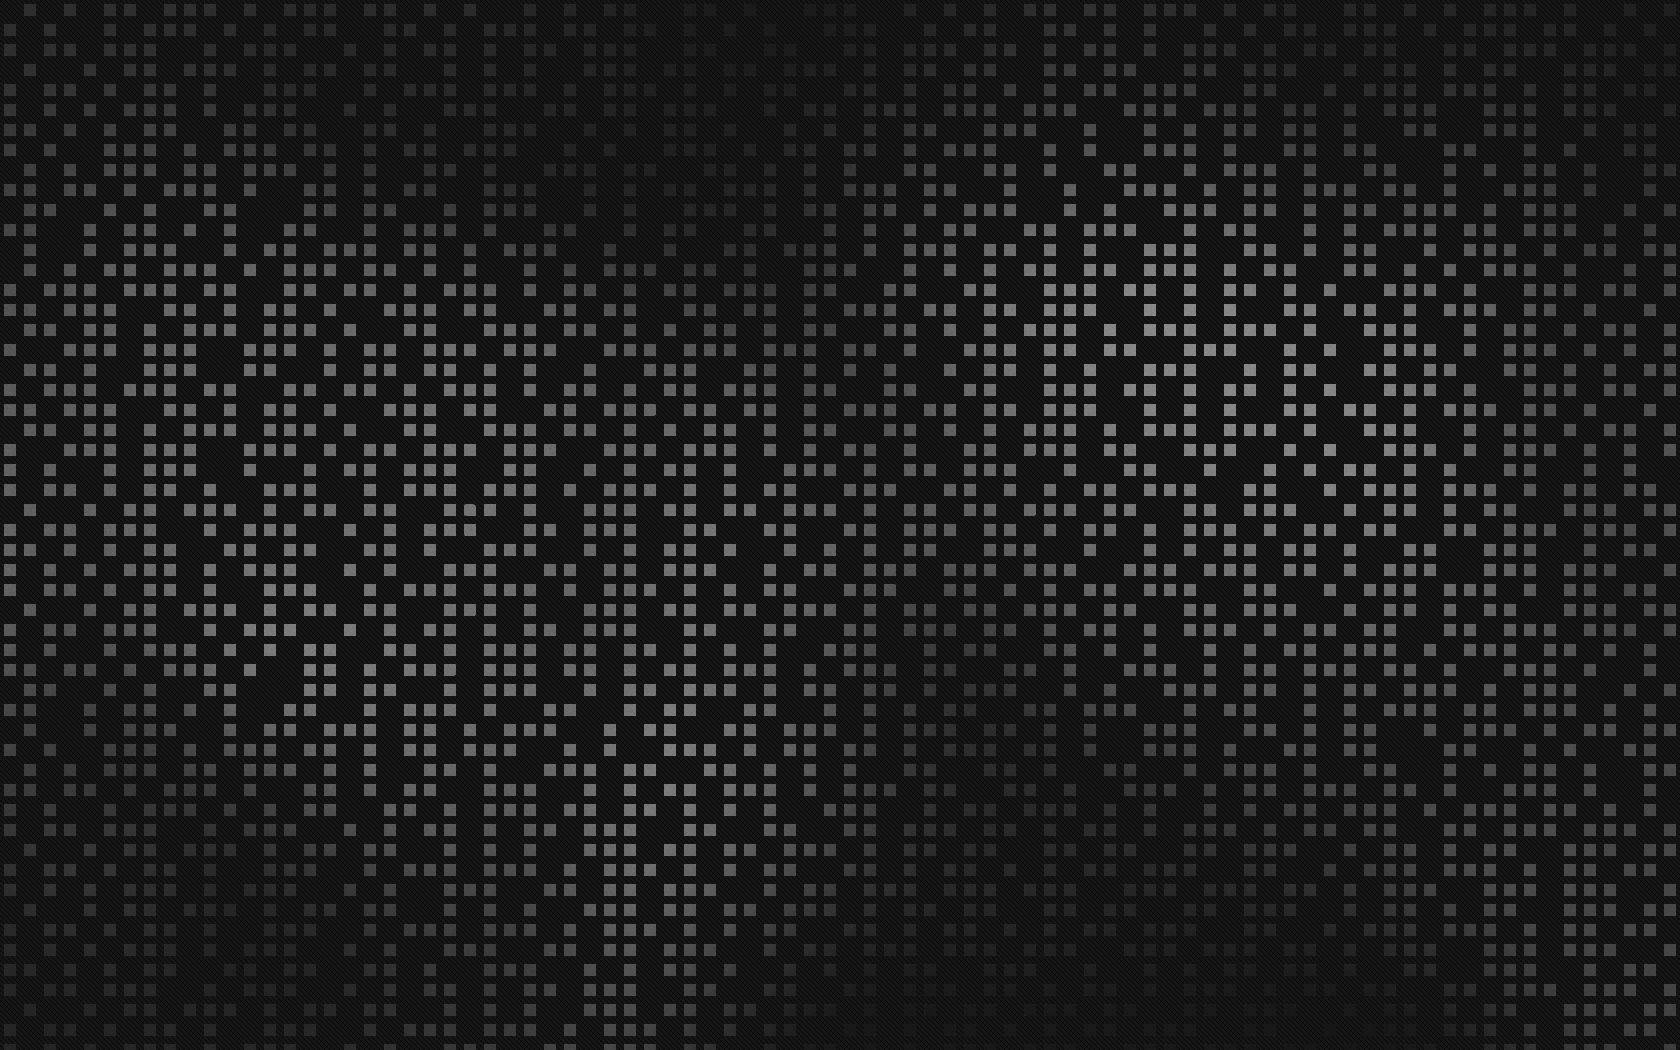
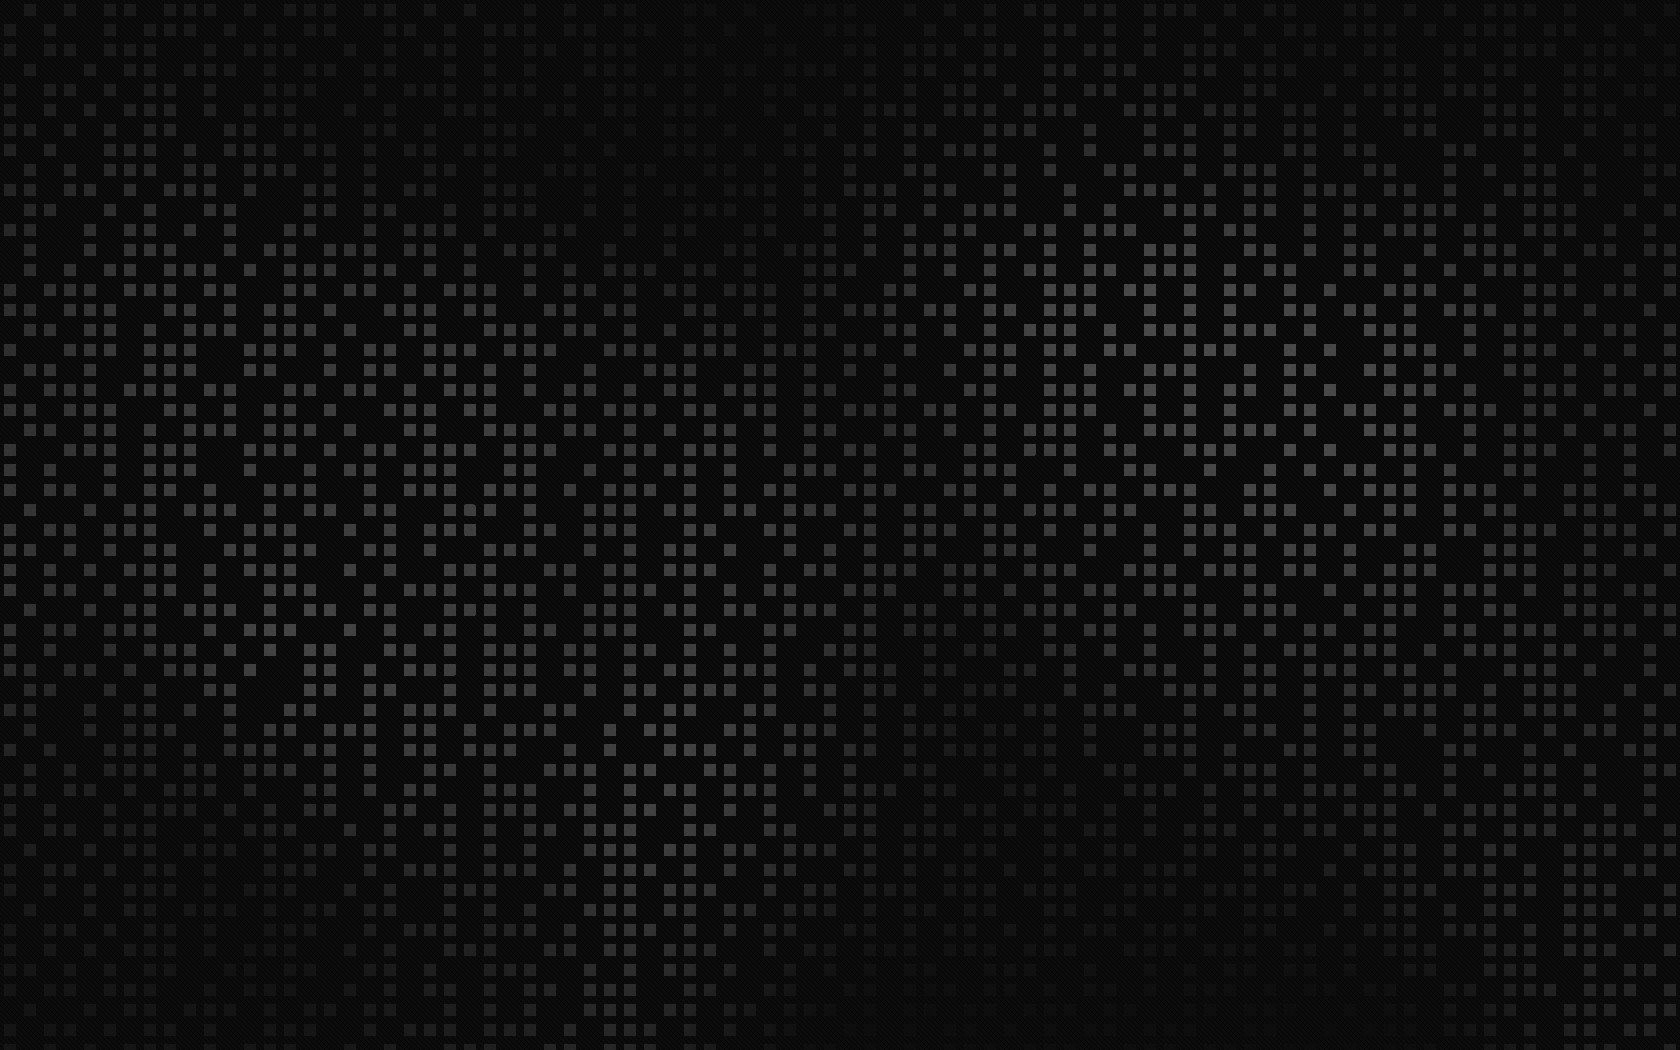
Update the intro title color

Changed region(s): [[0.0, 0.061, 1.0, 1.0]]

diff --git a/assets/css/main.css b/assets/css/main.css
@@ -3234,7 +3234,7 @@ input, select, textarea {
 			width: 100%;
 			height: 100%;
 			background-color: #212931;
-			background-image: url("../../images/sand_dunes.jpg"), linear-gradient(0deg, rgba(0, 0, 0, 0.1), rgba(0, 0, 0, 0.1)), url("../../images/bg.jpg");
+			background-image: url("../../images/dark-gray-data-pattern-hmzag70jff6xso8r.jpg"), linear-gradient(0deg, rgba(0, 0, 0, 0.1), rgba(0, 0, 0, 0.1)), url("../../images/bg.jpg");
 			background-size: auto,								auto,														100% auto;
 			background-position: center,								center,														top center;
 			background-repeat: repeat,								no-repeat,													no-repeat;
@@ -3284,7 +3284,7 @@ input, select, textarea {
 /* Intro */
 
 	#intro {
-		color: #7ee3ff;
+		color: #ffffff;
 		padding: 8rem 4rem 6rem 4rem ;
 		-moz-align-items: center;
 		-webkit-align-items: center;
@@ -3310,7 +3310,7 @@ input, select, textarea {
 		cursor: default;
 		text-align: center;
 		z-index: 1;
-		text-shadow: 1px 0 #18bfef, 0 1px #18bfef, -1px 0 #18bfef, 0 -1px #18bfef; 
+		text-shadow: 1px 0 #202020, 0 1px #202020, -1px 0 #202020, 0 -1px #202020; 
 		min-height: 100vh;
 	}
 
@@ -3333,7 +3333,7 @@ input, select, textarea {
 		}
 
 		#intro h1, #intro h2, #intro h3, #intro h4, #intro h5, #intro h6 {
-			color: #18bfef;
+			color: #ffffff;
 		}
 
 		#intro blockquote {

diff --git a/index.html b/index.html
@@ -19,9 +19,9 @@
 
 				<!-- Intro -->
 					<div id="intro">
-						<h1>Nathan "<b>Natan</b>" Wallace Data Portfolio</h1>
+						<h1>Nathan "<b>Natan</b>" Wallace <br>Data Portfolio</h1>
 						<p style="font-size: 1.5rem;">Born and raised in <b>Israel</b>. Moved to the US to follow my <b>dreams</b>. Moved to Colorado to follow my <b>love</b>. <br/>Changed career into data to follow my <b>passion</b>. <br/><br/>
-						Professionally experienced in SQL, Python, Tableau and AWS.</p>
+						Professionally experienced in Python, PowerBI, SQL, Tableau and AWS.</p>
 						<ul class="actions">
 							<li><a href="#header" class="button icon solid solo fa-arrow-down scrolly">Continue</a></li>
 						</ul>
